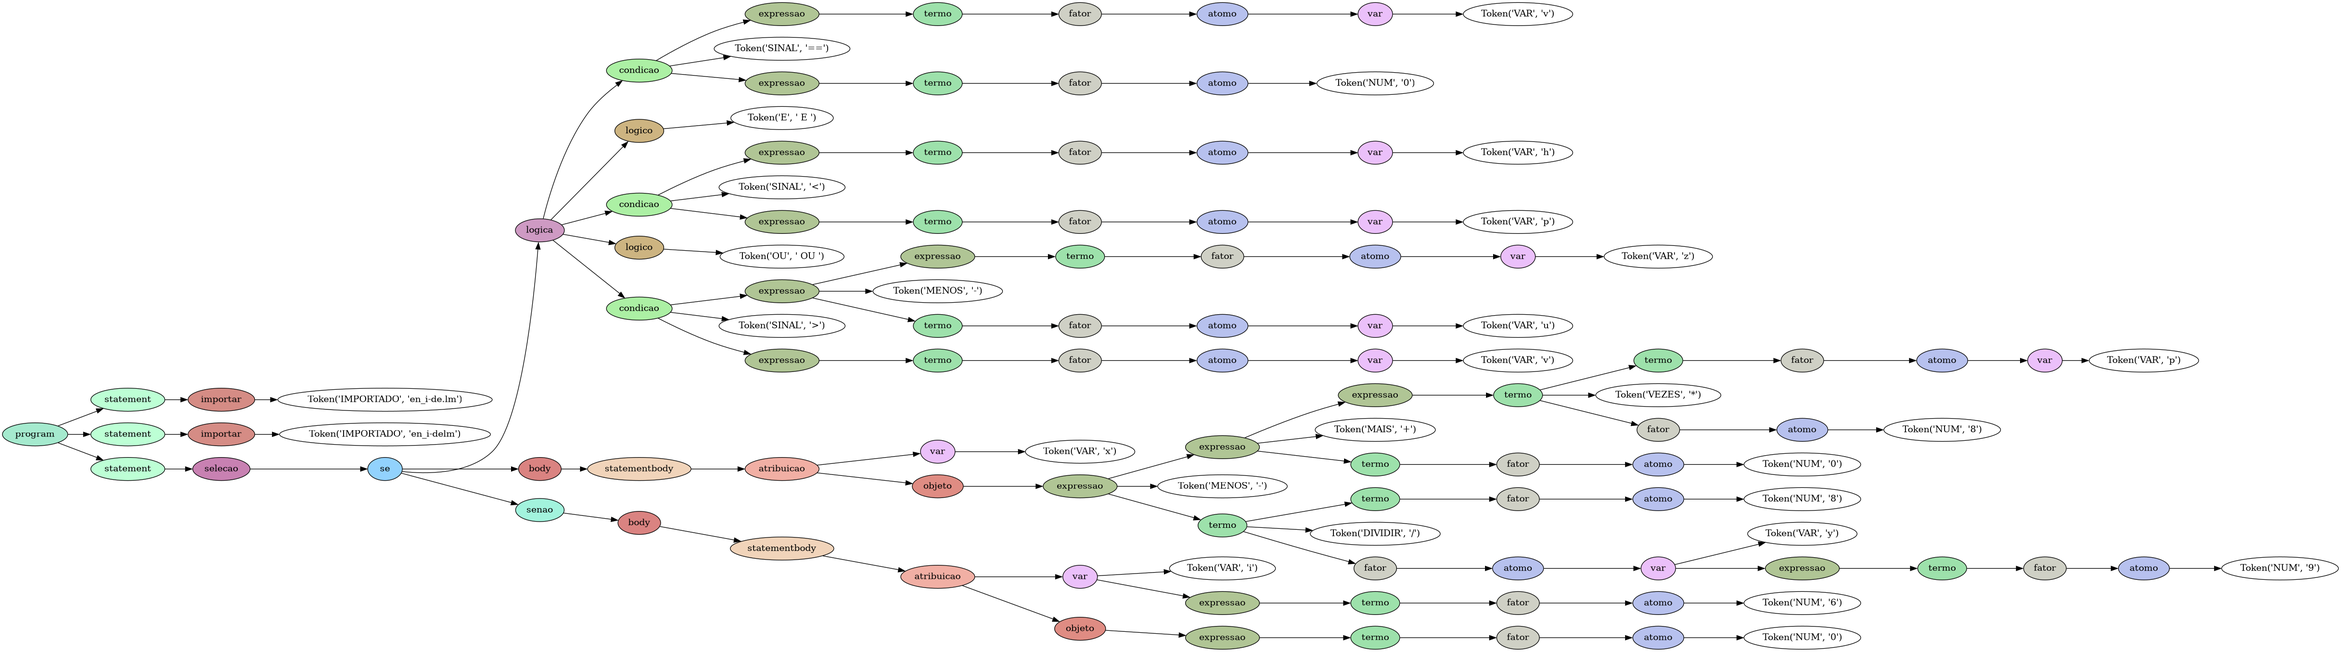
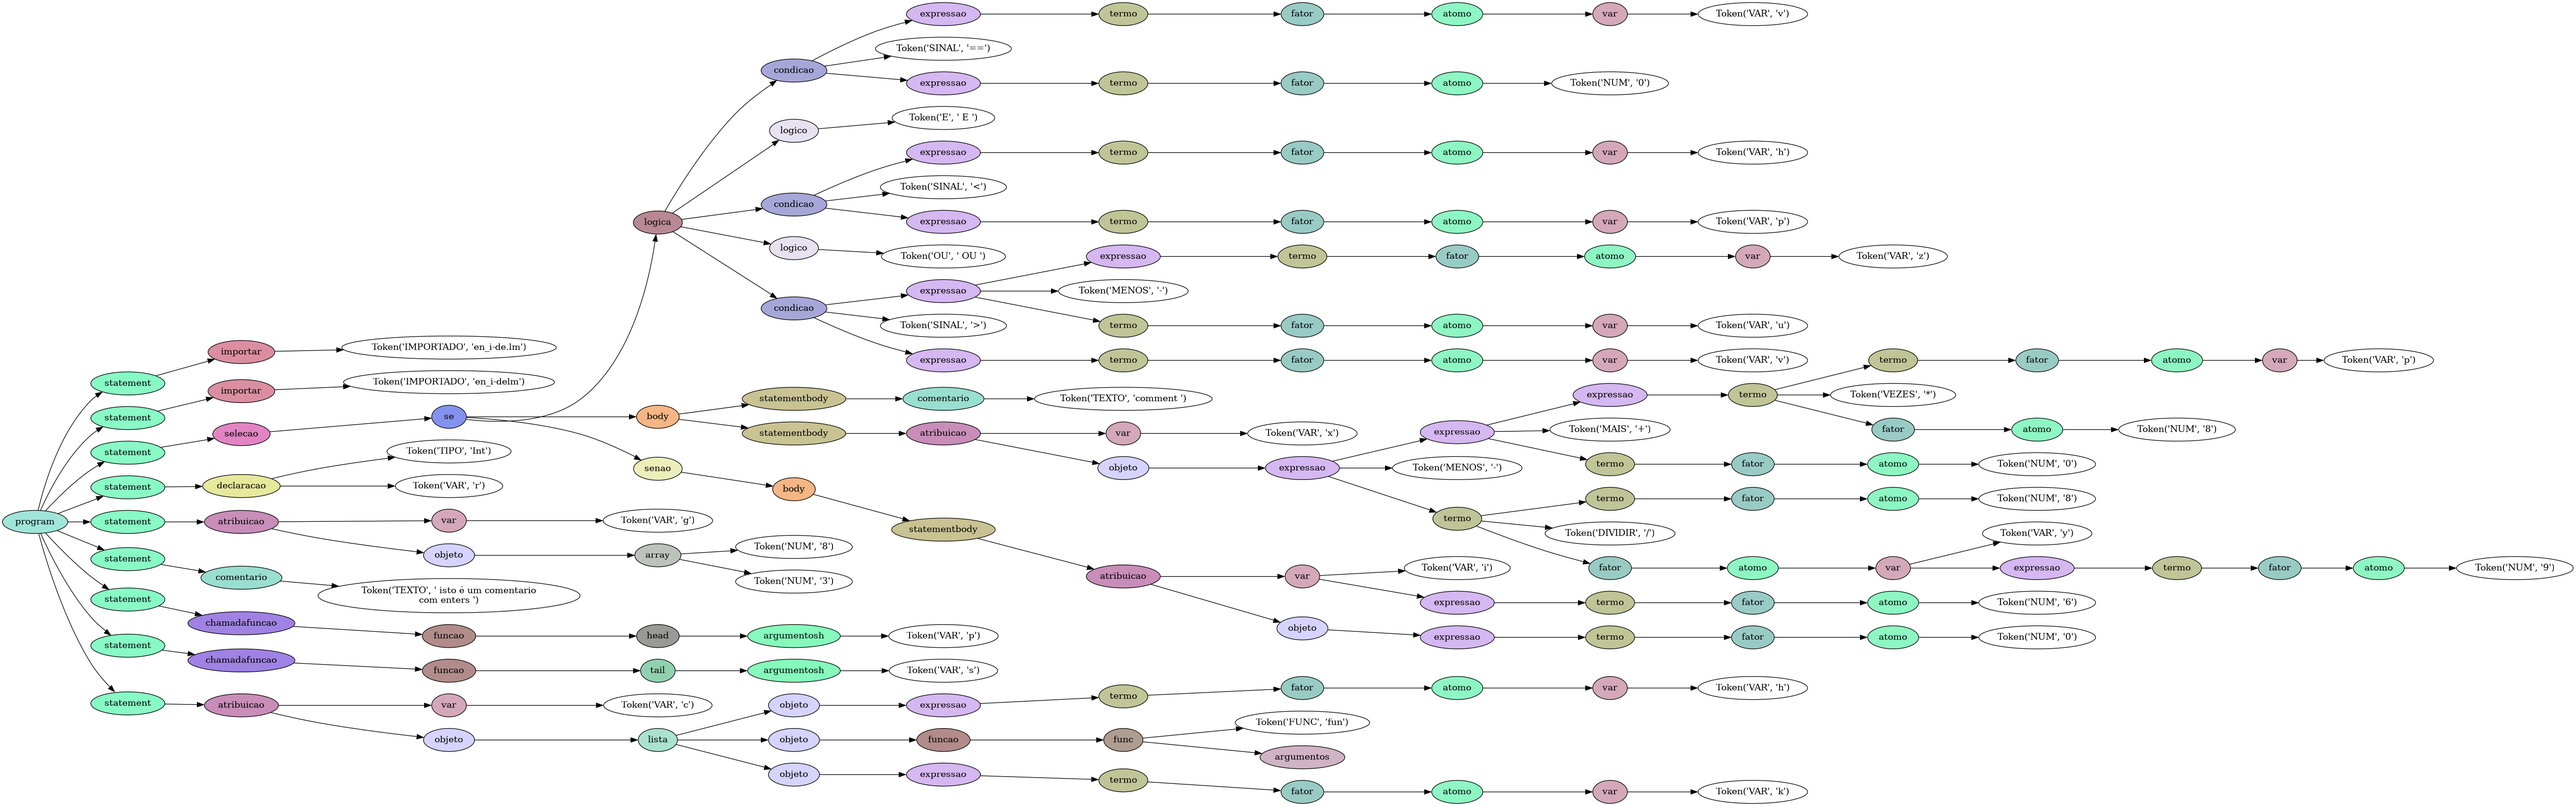
Updated

diff --git a/src/ptyC.py b/src/ptyC.py
@@ -49,15 +49,15 @@ class MyInterpreter(Interpreter):
 
     def cons(self,cons):
         # cons: "cons" "(" argumentosc ")"
-        cons = []
+        cs = []
         for c in cons.children:
             if(type(c) == Tree):
-                cons.append({c.data: self.visit(c)})
+                cs.append({c.data: self.visit(c)})
             else:
                 if (type(c) == Token):
-                    cons.append({c.type: c})
+                    cs.append({c.type: c})
 
-        return cons
+        return cs
 
     def argumentosc(self,argumentosc):
         # argumentosc: objeto "," argumentosh
@@ -73,39 +73,39 @@ class MyInterpreter(Interpreter):
 
     def snoc(self,snoc):
         # snoc: "snoc" "(" argumentosc ")"
-        snoc = []
+        sc = []
         for s in snoc.children:
             if(type(s) == Tree):
-                snoc.append({s.data: self.visit(s)})
+                sc.append({s.data: self.visit(s)})
             else:
                 if (type(s) == Token):
-                    snoc.append({s.type: s})
+                    sc.append({s.type: s})
 
-        return snoc
+        return sc
 
     def head(self,head):
         # head: "head" "(" argumentosh ")"
-        head = []
+        hd = []
         for h in head.children:
             if(type(h) == Tree):
-                head.append({h.data: self.visit(h)})
+                hd.append({h.data: self.visit(h)})
             else:
                 if (type(h) == Token):
-                    head.append({h.type: h})
+                    hd.append({h.type: h})
 
-        return head
+        return hd
 
     def tail(self,tail):
         # tail: "tail" "(" argumentosh ")"
-        tail = []
+        tl = []
         for t in tail.children:
             if(type(t) == Tree):
-                tail.append({t.data: self.visit(t)})
+                tl.append({t.data: self.visit(t)})
             else:
                 if (type(t) == Token):
-                    tail.append({t.type: t})
+                    tl.append({t.type: t})
 
-        return tail
+        return tl
 
     def argumentosh(self,argumentosh):
         # argumentosh: VAR
@@ -358,7 +358,16 @@ class MyInterpreter(Interpreter):
         Discard
 
     def chamadafuncao(self,chamadafuncao):
-        Discard
+        # chamadafuncao: funcao ";"
+        cfunc = []
+        for cf in chamadafuncao.children:
+            if(type(cf) == Tree):
+                cfunc.append({cf.data: self.visit(cf)})
+            else:
+                if (type(cf) == Token):
+                    cfunc.append({cf.type: cf})
+        return cfunc
+        
 
     def deffuncao(self,deffuncao):
         Discard
@@ -368,7 +377,10 @@ class MyInterpreter(Interpreter):
         return importar.children[0].value
 
     def comentario(self,comentario):
-        Discard
+        # comentario: ":-" TEXTO "-:"
+        return comentario.children[0].value
+        
+
 
 frase = open("teste.txt", "r").read()
 
@@ -381,10 +393,10 @@ parse_tree = p.parse(frase)
 
 data = MyInterpreter().visit(parse_tree)
 
-print("data: ", data)
+#print("data: ", data)
 
 # data in json file
 with open('tree.json', 'w') as outfile:
-    json.dump(data, outfile, indent=2)
+    json.dump(data, outfile, indent=2, ensure_ascii=False)
 
 pydot__tree_to_png(parse_tree, "tree.png")

diff --git a/README.md b/README.md
@@ -2,11 +2,56 @@
 
 - add Documentation to the grammar
 
-- testar mudança no " EM "
-
-
 - run:
 
 ```
 python3 src/ptyC.py
 ```
+
+
+------------
+
+
+- [x] program
+- [x] statement
+- [x] body
+- [x] statementbody
+- [x] declaracao
+- [x] atribuicao
+- [x] var
+- [x] objeto
+- [x] array     
+- [x] tuplo
+- [x] lista
+- [x] expressao
+- [x] termo
+- [x] fator
+- [x] atomo
+- [x] selecao
+- [x] se
+- [x] logica
+- [x] condicao
+- [x] logico
+- [x] senao
+- [] casos
+- [] caso
+- [] casofinal
+- [] repeticao
+- [] enquanto
+- [] repetir
+- [] para
+- [] varlista
+- [x] chamadafuncao
+- [x] funcao
+- [x] cons
+- [x] argumentosc
+- [x] snoc
+- [x] head
+- [x] argumentosh
+- [x] tail
+- [x] func
+- [x] argumentos
+- [] deffuncao
+- [] retorna
+- [x] importar
+- [x] comentario
